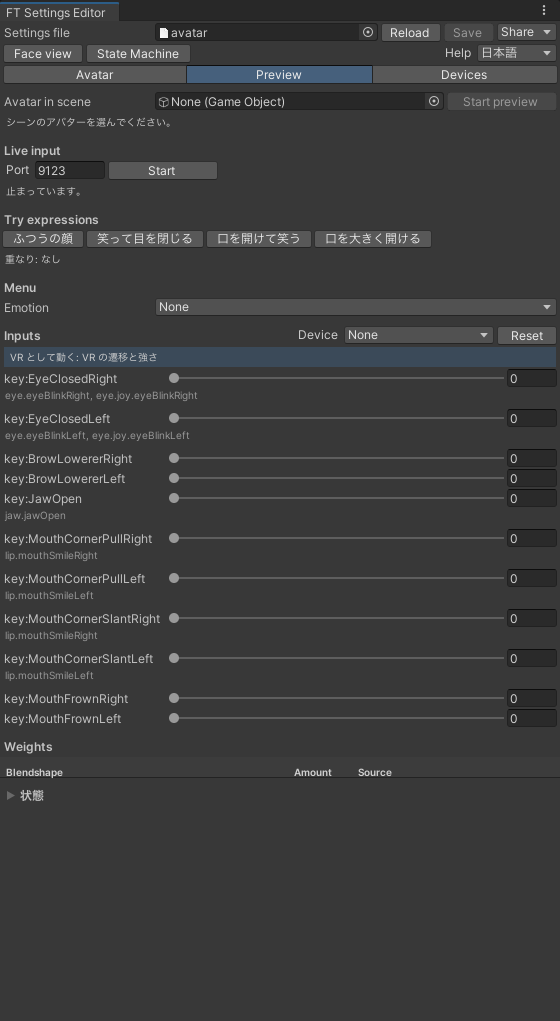
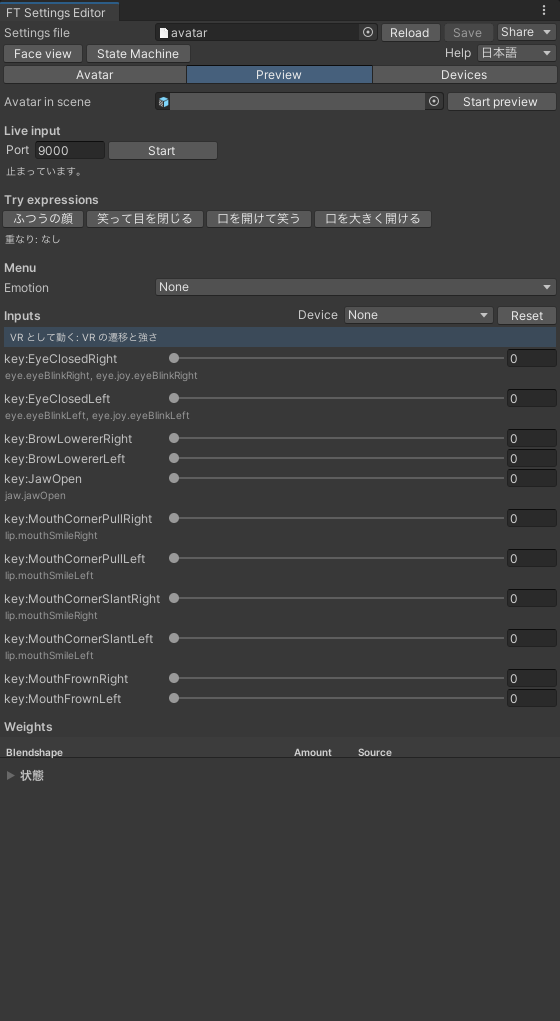
Manual: name every label as the windows show it, and retake the Preview tab with the default port

diff --git a/Packages/dev.kmnk.face-tracking-generator/Documentation~/manual-ja/index.html b/Packages/dev.kmnk.face-tracking-generator/Documentation~/manual-ja/index.html
@@ -363,6 +363,10 @@ blockquote { margin: 1em 0; padding: 0 1em; color: var(--muted); border-left: 4p
 <td>設定をファイルから読み直します</td>
 </tr>
 <tr>
+<td>Discard</td>
+<td>保存していない変更があるときに別の設定を開くと出る確認の窓のボタン。変更を捨てます</td>
+</tr>
+<tr>
 <td>Save</td>
 <td>設定を保存します。保存すると、設定ファイルの <code>//</code> のコメントは消えます</td>
 </tr>
@@ -391,6 +395,10 @@ blockquote { margin: 1em 0; padding: 0 1em; color: var(--muted); border-left: 4p
 </thead>
 <tbody>
 <tr>
+<td>Prefab</td>
+<td>FT を作るアバターのプレハブ</td>
+</tr>
+<tr>
 <td>Fill from Prefab</td>
 <td>プレハブから、顔のメッシュ・メニュー・同じ名前のブレンドシェイプ・空の AFK のアニメーションを埋めます</td>
 </tr>
@@ -399,8 +407,12 @@ blockquote { margin: 1em 0; padding: 0 1em; color: var(--muted); border-left: 4p
 <td>顔のメッシュ</td>
 </tr>
 <tr>
-<td>Blendshape / Property</td>
-<td>顔の動きごとの、ブレンドシェイプかマテリアルのプロパティの列</td>
+<td>Face movements</td>
+<td>顔の動きの一覧の見出し。右に、ブレンドシェイプを選んだ数と Not set の数が出ます</td>
+</tr>
+<tr>
+<td>Movement / Blendshape / Property / Scale</td>
+<td>一覧の列。顔の動き、当てるブレンドシェイプかマテリアルのプロパティ（列の見出しは <strong>Blendshape / Property</strong>）、強さ</td>
 </tr>
 <tr>
 <td>Menu</td>
@@ -432,15 +444,15 @@ blockquote { margin: 1em 0; padding: 0 1em; color: var(--muted); border-left: 4p
 </tr>
 <tr>
 <td>+ Add Face Movement</td>
-<td>顔の動きを足します。開く小さな窓（<strong>New face movement…</strong>）の <strong>Name</strong> に <code>部位.名前</code> を入れ、<strong>Add</strong> で足し、<strong>Cancel</strong> でやめます</td>
+<td>顔の動きを足します。開く小さな窓（<strong>New face movement…</strong>、窓の見出しは <strong>New face movement</strong>）の <strong>Name</strong> に <code>部位.名前</code> を入れ、<strong>Add</strong> で足し、<strong>Cancel</strong> でやめます</td>
 </tr>
 <tr>
-<td>ゴミ箱（Del）</td>
-<td>どの状態も使わない顔の動きを消します</td>
+<td>ゴミ箱 / Del</td>
+<td>どの状態も使わない顔の動きを消します（ゴミ箱の絵を出せないときは Del と出ます）</td>
 </tr>
 <tr>
 <td>Rename…</td>
-<td>顔の動きの名前を、2 つの設定の両方で変えます。開く小さな窓は <strong>Rename face movement</strong> です</td>
+<td>顔の動きの名前を、2 つの設定の両方で変えます。開く小さな窓は <strong>Rename face movement</strong> で、<strong>Rename</strong> で決めます</td>
 </tr>
 <tr>
 <td>Layers</td>
@@ -505,6 +517,10 @@ blockquote { margin: 1em 0; padding: 0 1em; color: var(--muted); border-left: 4p
 </thead>
 <tbody>
 <tr>
+<td>Recordings</td>
+<td>記録の見出し。記録が無いときは、記録で何が分かるかが出ます</td>
+</tr>
+<tr>
 <td>Add VR recording / Add Desktop recording</td>
 <td>FT Measure の記録を <code>Measurements/</code> に写します</td>
 </tr>
@@ -553,6 +569,10 @@ blockquote { margin: 1em 0; padding: 0 1em; color: var(--muted); border-left: 4p
 <td>グラフ全体を表示します（<strong>F</strong> キーでも同じ）</td>
 </tr>
 <tr>
+<td>State</td>
+<td>選んだ状態の名前</td>
+</tr>
+<tr>
 <td>Selectable from menu</td>
 <td>メニューから選べる状態にします</td>
 </tr>
@@ -581,8 +601,12 @@ blockquote { margin: 1em 0; padding: 0 1em; color: var(--muted); border-left: 4p
 <td>その行のキーで何も動かしません</td>
 </tr>
 <tr>
-<td>Copy from</td>
-<td>別の状態の行を写します</td>
+<td>Copy from / Copy</td>
+<td>写す元の状態を選び、<strong>Copy</strong> で行を写します</td>
+</tr>
+<tr>
+<td>Key / Movement / Curve</td>
+<td>行の列。トラッキングキー、動かす顔の動き、応答の曲線</td>
 </tr>
 <tr>
 <td>Curve</td>
@@ -599,6 +623,10 @@ blockquote { margin: 1em 0; padding: 0 1em; color: var(--muted); border-left: 4p
 <tr>
 <td>Duration</td>
 <td>選んだ遷移の移り変わりの秒数</td>
+</tr>
+<tr>
+<td>Transition</td>
+<td>選んだ遷移（どこからどこへ）</td>
 </tr>
 <tr>
 <td>Conditions</td>

diff --git a/docs/manual-ja/CAPTURES.md b/docs/manual-ja/CAPTURES.md
@@ -10,7 +10,7 @@ Images must not show the names of a bought avatar's blendshapes, meshes or asset
 | --- | --- | --- |
 | `generator-window.png` | `-ftWindow generator -ftTable <table> -ftHelp ja -ftSize 560x900`, top 560x335 kept | none |
 | `avatar-tab.png` | `-ftTable <table> -ftTab avatar -ftHelp ja -ftSize 560x1000` | the Prefab, Face mesh and Menu fields, and every assigned Blendshape / Property cell |
-| `preview-tab.png` | `-ftTable <table> -ftTab preview -ftHelp ja -ftSize 560x1000` | none (no avatar chosen, so Weights is empty) |
+| `preview-tab.png` | `-ftTable <table> -ftTab preview -ftHelp ja -ftSize 560x1000`, with the Live input port set back to its default 9000 first (the editor keeps the last port in EditorPrefs `Kmnk.FaceTrackingGenerator.LivePort`; set it back afterwards) | the Avatar in scene field (the avatar's name) |
 | `state-machine.png` | `-ftWindow statemachine -ftTable <table> -ftHelp ja -ftSmMachine Emotion -ftSmSelect joy -ftSize 1100x700` | none (face movement names of the template only) |
 | `face-view-joy.png` | the Face view window that the `state-machine.png` run writes next to it (`<out>.faceview.png`) | none |
 | `generator-check.png` | `-ftWindow generator -ftTable <table> -ftHelp ja -ftGenPress check -ftSize 560x900`, top 560x380 kept | none |
